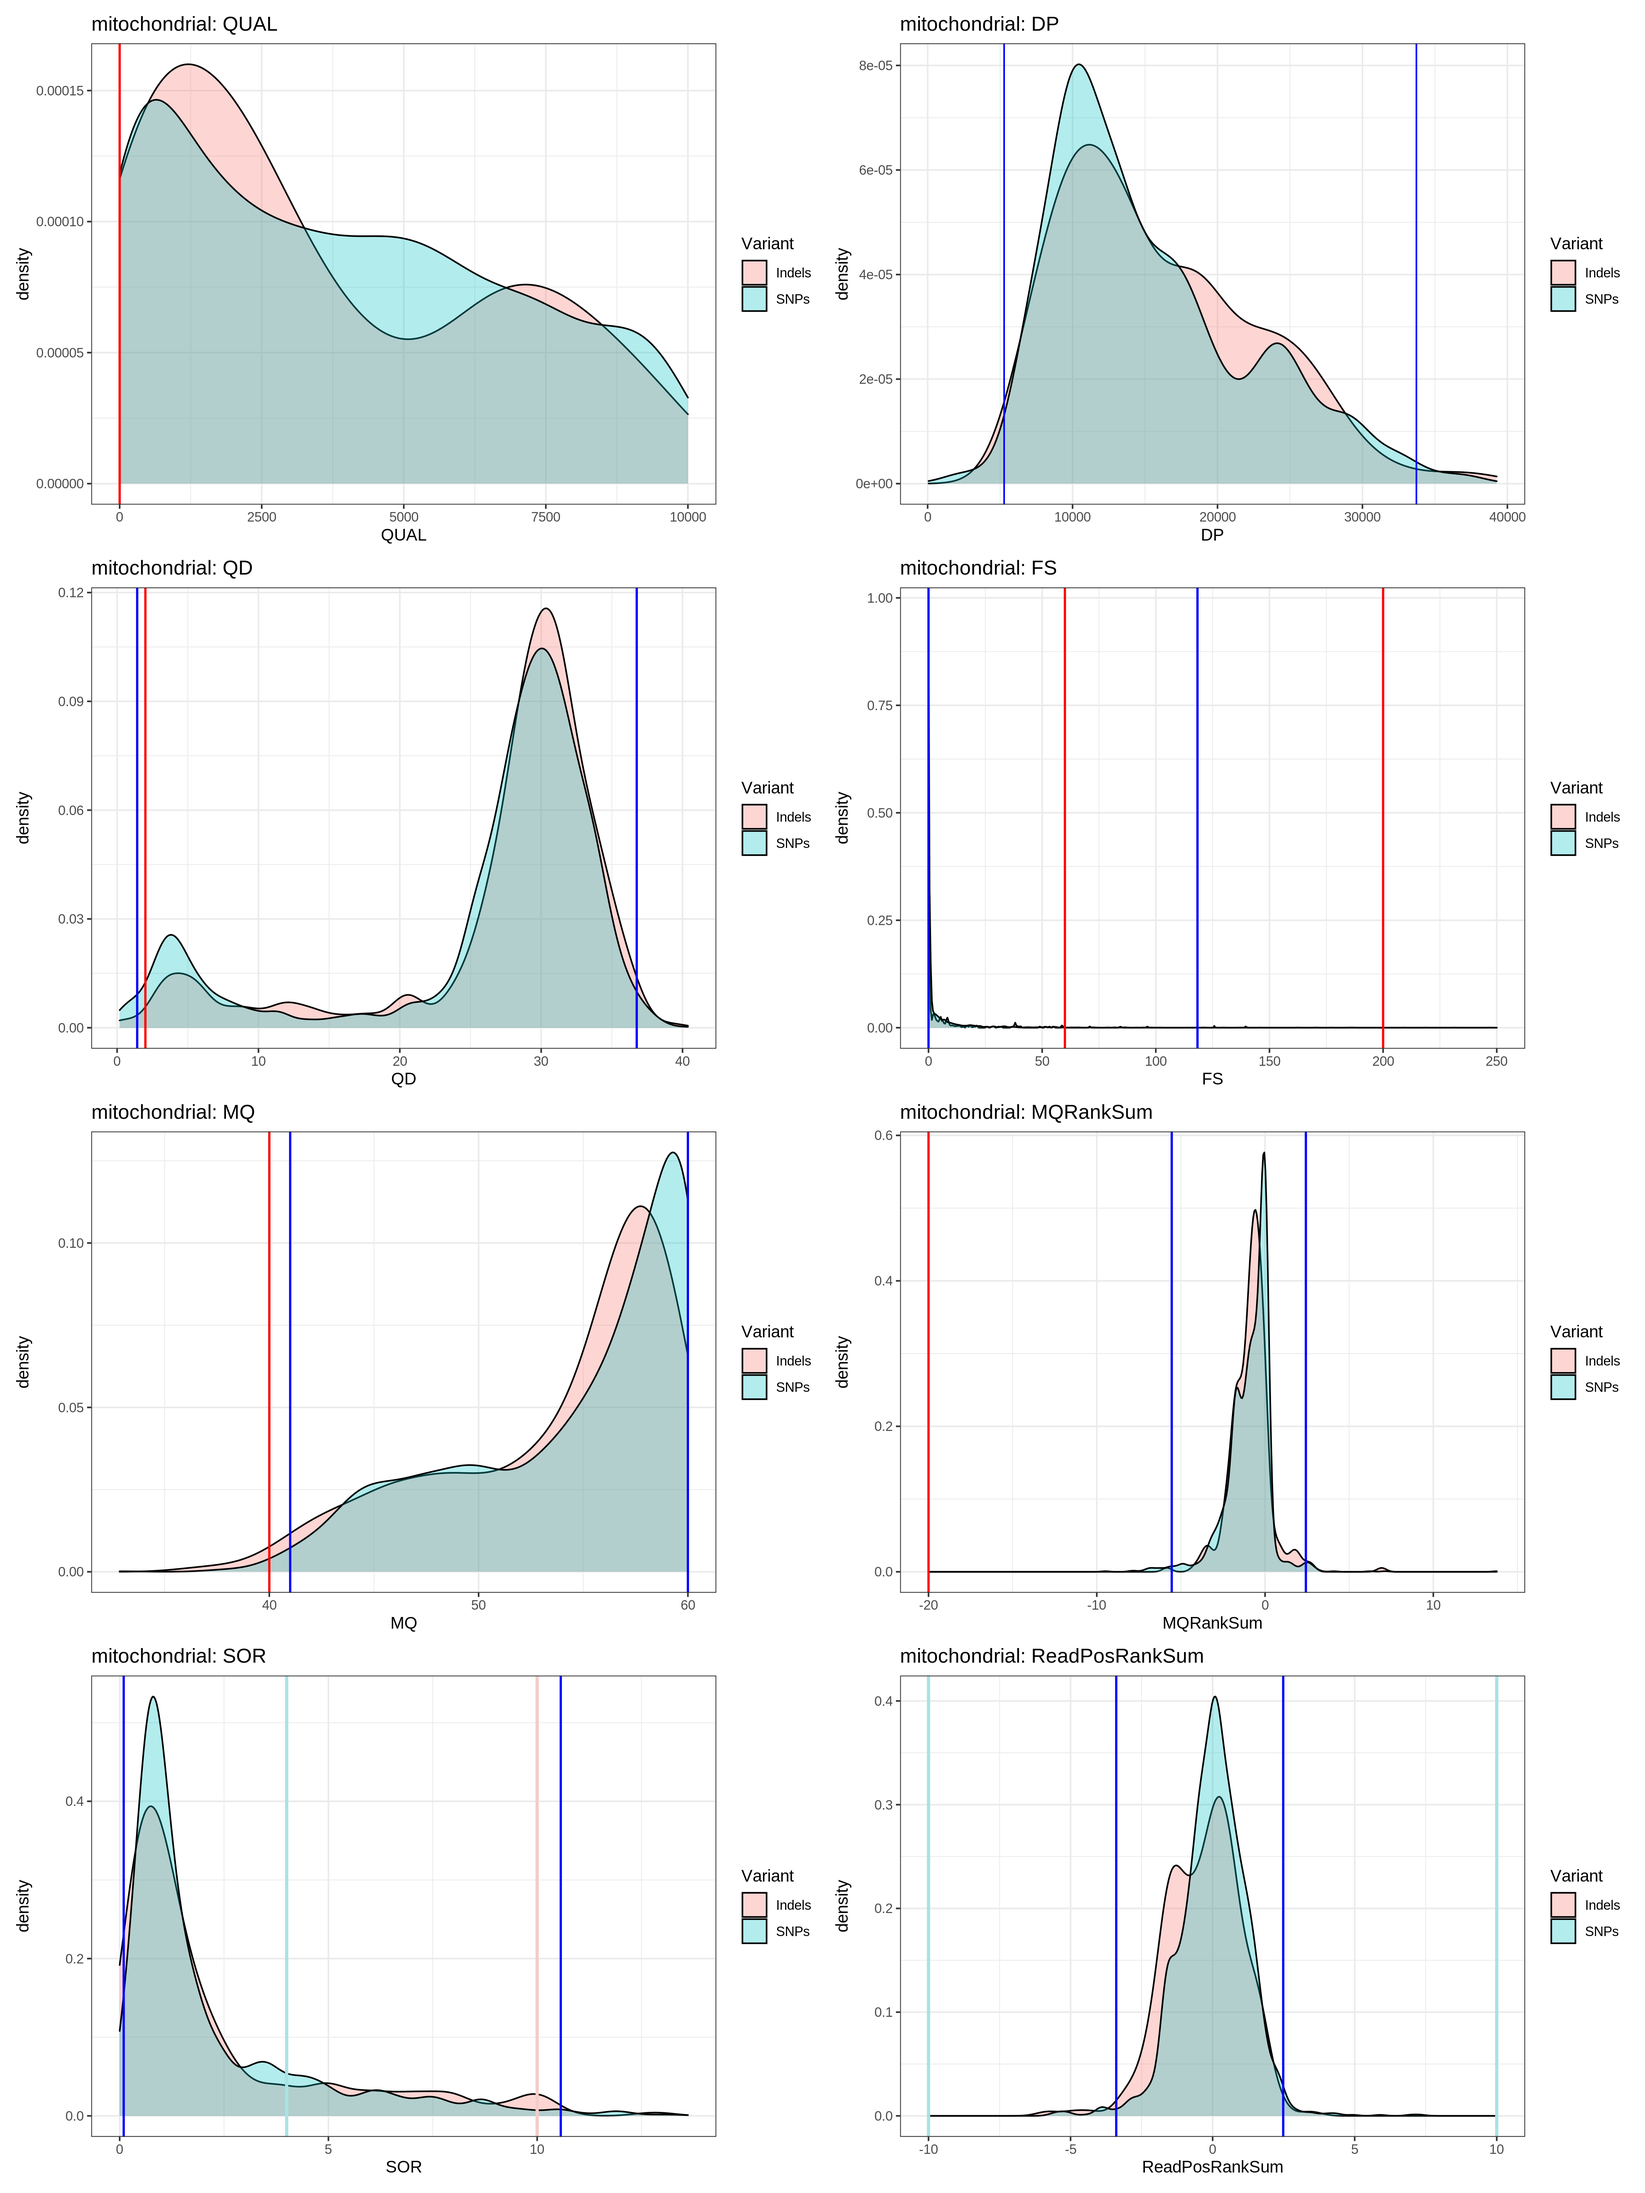
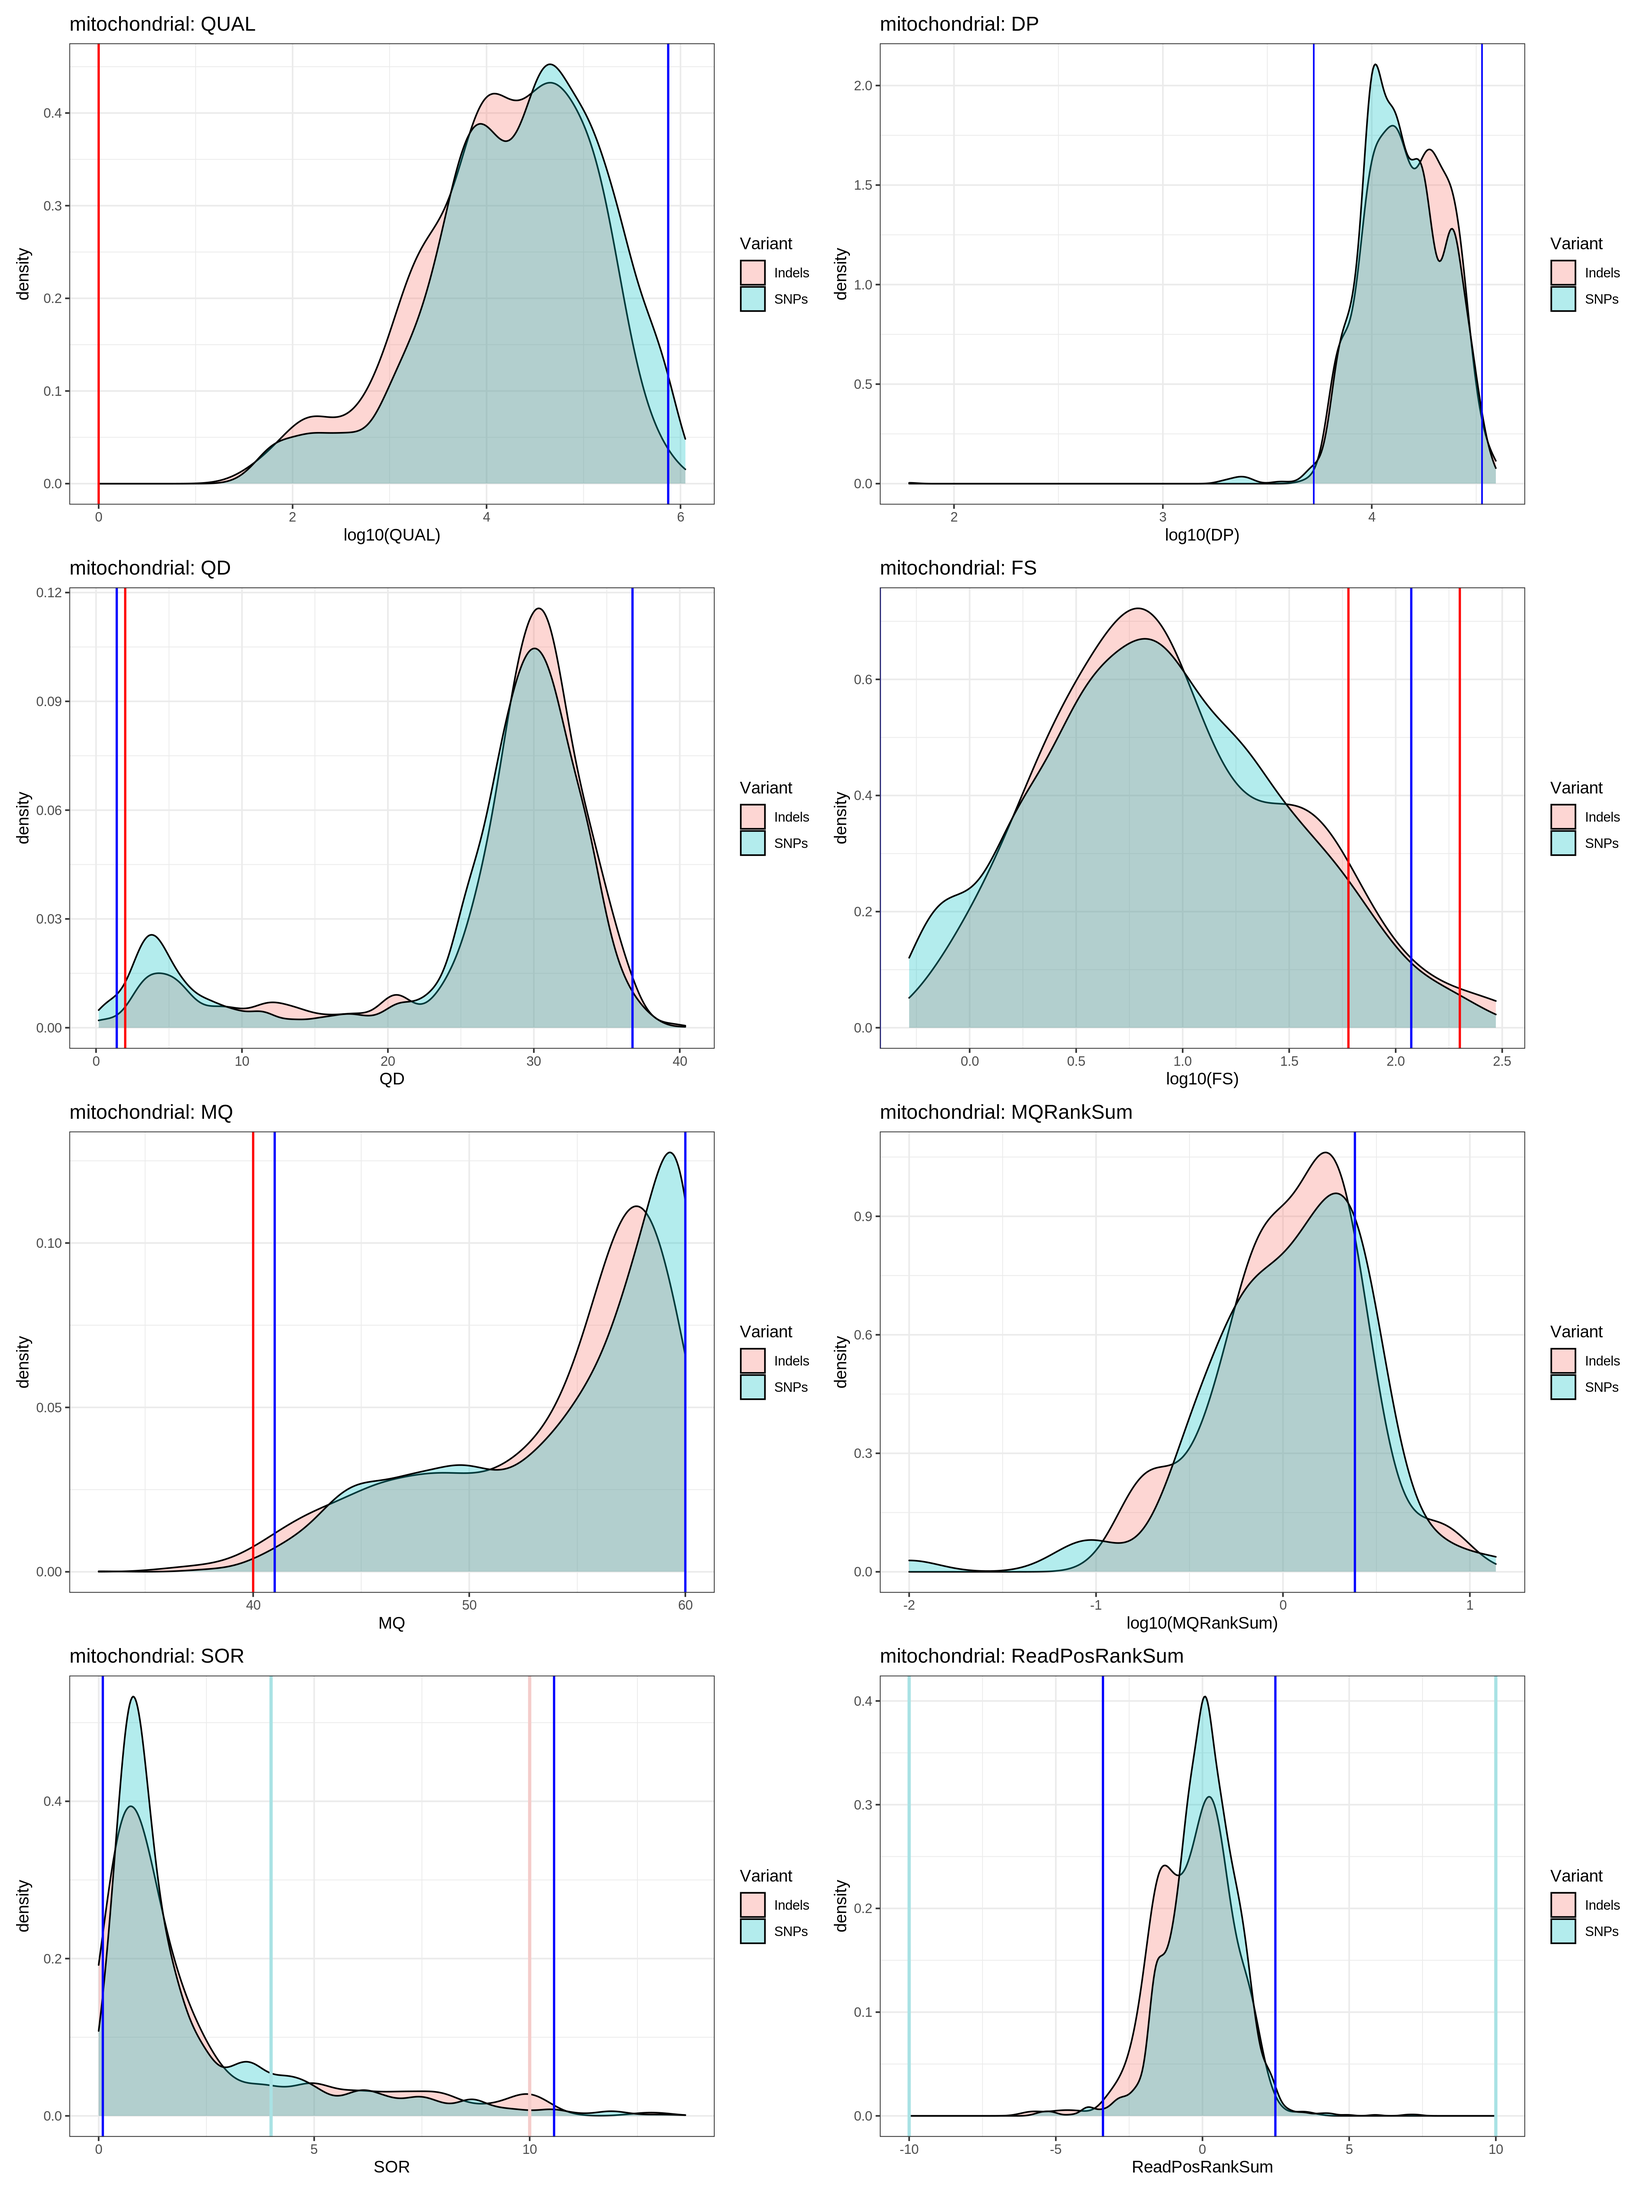
update

diff --git a/03_code/ancient_trichuris.workbook.md b/03_code/ancient_trichuris.workbook.md
@@ -1223,17 +1223,17 @@ indels <- '#F4CCCA'
 fun_variant_summaries <- function(data, title){
 # gatk hardfilter: SNP & INDEL QUAL < 0
 QUAL_quant <- quantile(data$QUAL, c(.01,.99), na.rm=T)
-QUAL <- ggplot(data, aes(x=QUAL, fill=Variant)) + geom_density(alpha=.3) +
+QUAL <- ggplot(data, aes(x=log10(QUAL), fill=Variant)) + geom_density(alpha=.3) +
           geom_vline(xintercept=0, size=0.7, col="red") +
-           geom_vline(xintercept=c(QUAL_quant[2], QUAL_quant[3]), size=0.7, col="blue") +
-           xlim(0,10000) +
+           geom_vline(xintercept=c(log10(QUAL_quant[2]), log10(QUAL_quant[3])), size=0.7, col="blue") +
+           #xlim(0,10000) +
            theme_bw() + labs(title=paste0(title,": QUAL"))
 
 
 # DP doesnt have a hardfilter
 DP_quant <- quantile(data$DP, c(.01,.99), na.rm=T)
-DP <- ggplot(data, aes(x=DP, fill=Variant)) + geom_density(alpha=0.3) +
-          geom_vline(xintercept=DP_quant, col="blue") +
+DP <- ggplot(data, aes(x=log10(DP), fill=Variant)) + geom_density(alpha=0.3) +
+          geom_vline(xintercept=log10(DP_quant), col="blue") +
           theme_bw() + labs(title=paste0(title,": DP"))
 
 # gatk hardfilter: SNP & INDEL QD < 2
@@ -1245,10 +1245,10 @@ QD <- ggplot(data, aes(x=QD, fill=Variant)) + geom_density(alpha=.3) +
 
 # gatk hardfilter: SNP FS > 60, INDEL FS > 200
 FS_quant <- quantile(data$FS, c(.01,.99), na.rm=T)
-FS <- ggplot(data, aes(x=FS, fill=Variant)) + geom_density(alpha=.3) +
-          geom_vline(xintercept=c(60, 200), size=0.7, col="red") +
-          geom_vline(xintercept=FS_quant, size=0.7, col="blue") +
-          xlim(0,250) +
+FS <- ggplot(data, aes(x=log10(FS), fill=Variant)) + geom_density(alpha=.3) +
+          geom_vline(xintercept=c(log10(60), log10(200)), size=0.7, col="red") +
+          geom_vline(xintercept=log10(FS_quant), size=0.7, col="blue") +
+          #xlim(0,250) +
           theme_bw() + labs(title=paste0(title,": FS"))
 
 # gatk hardfilter: SNP & INDEL MQ < 30
@@ -1260,9 +1260,9 @@ MQ <- ggplot(data, aes(x=MQ, fill=Variant)) + geom_density(alpha=.3) +
 
 # gatk hardfilter: SNP MQRankSum < -20
 MQRankSum_quant <- quantile(data$MQRankSum, c(.01,.99), na.rm=T)
-MQRankSum <- ggplot(data, aes(x=MQRankSum, fill=Variant)) + geom_density(alpha=.3) +
-                    geom_vline(xintercept=-20, size=0.7, col="red") +
-                    geom_vline(xintercept=MQRankSum_quant, size=0.7, col="blue") +
+MQRankSum <- ggplot(data, aes(x=log10(MQRankSum), fill=Variant)) + geom_density(alpha=.3) +
+                    geom_vline(xintercept=log10(-20), size=0.7, col="red") +
+                    geom_vline(xintercept=log10(MQRankSum_quant), size=0.7, col="blue") +
                     theme_bw() + labs(title=paste0(title,": MQRankSum"))
 
 
@@ -1307,7 +1307,7 @@ ReadPosRankSum_quant$name <- "ReadPosRankSum"
 quantiles <- bind_rows(QUAL_quant,DP_quant, QD_quant, FS_quant, MQ_quant, MQRankSum_quant, SOR_quant, ReadPosRankSum_quant)
 quantiles$name <- c("QUAL_Indels","QUAL_SNPs","DP_indels","DP_SNPs", "QD_indels","QD_SNPs", "FS_indels","FS_SNPs", "MQ_indels","MQ_SNPs", "MQRankSum_indels","MQRankSum_SNPs", "SOR_indels","SOR_SNPs","ReadPosRankSum_indels","ReadPosRankSum_SNPs")
 
-png(paste0("table_",title,"_variant_quantiles.png"), width=1000,height=600,bg = "white")
+png(paste0("table_",title,"_variant_quantiles.png"), width=1000,height=500,bg = "white")
 print(quantiles)
 grid.table(quantiles)
 dev.off()
@@ -1329,3 +1329,5 @@ fun_variant_summaries(VCF_nuclear,"nuclear")
 ![plot_variant_summaries](../04_analysis/table_mitochondrial_variant_quantiles.png)
 - Table: nuclear_variant_quantiles
 ![plot_variant_summaries](../04_analysis/table_nuclear_variant_quantiles.png)
+- GATK hard filters are as follows (https://gatk.broadinstitute.org/hc/en-us/articles/360035890471-Hard-filtering-germline-short-variants):
+     -
